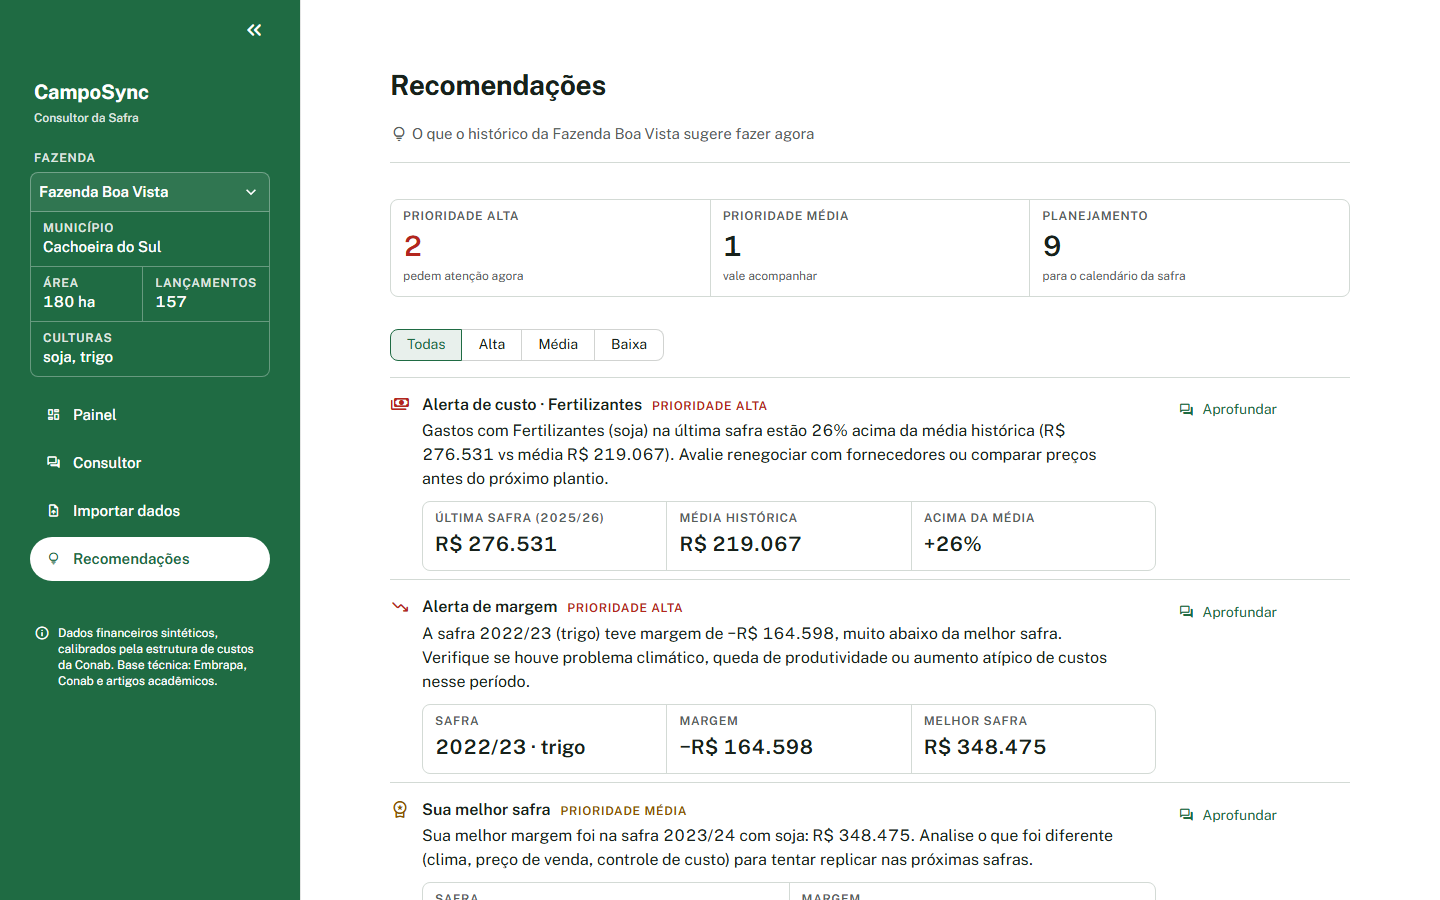
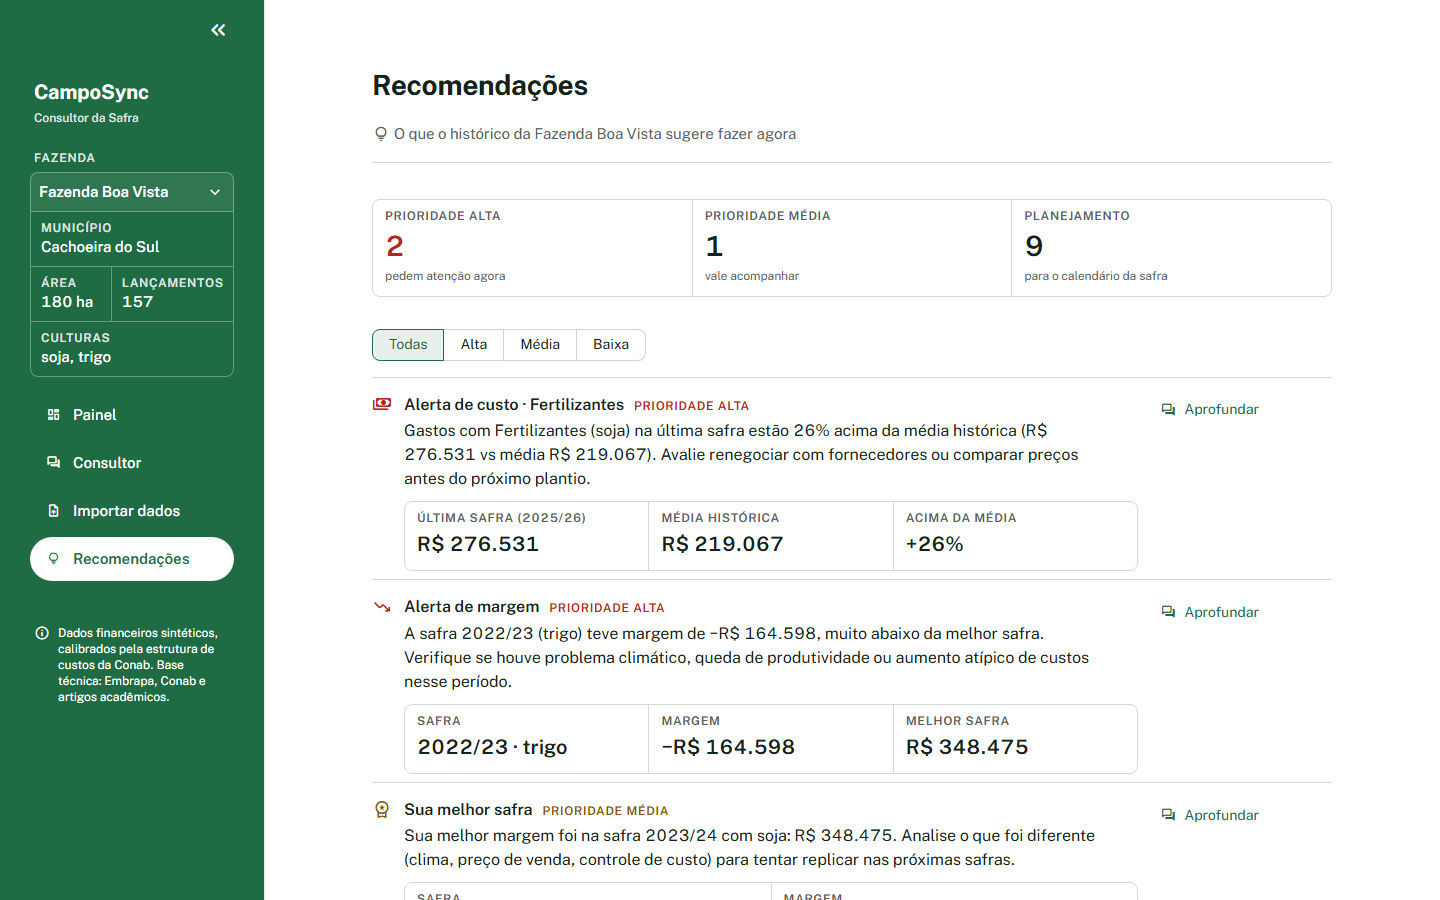
feat(ui): finaliza interface do handoff (trilho, importar, como cheguei) e atualiza roadmap
- trilho com 264px (Streamlit 1.67 usa data-collapsed) e ficha sem quebra de linha
- importar: uploader em português, campos explicativos e tabela do modelo de planilha
- "como cheguei": cada consulta vira linha de campos da nota
- campo de pergunta com rótulo; cores soltas viram tokens
- prints do repositório refeitos; roadmap atualizado; pasta de handoff ignorada

diff --git a/ui/tema.py b/ui/tema.py
@@ -22,6 +22,10 @@ AMBAR_FIO = "#D9A441"
 AMBAR_FUNDO = "#FDF6E9"
 VERMELHO = "#B3261E"
 VERMELHO_FUNDO = "#FCEEEC"
+VERDE_FIO = "#CFE0D5"     # borda da pergunta do produtor
+OK_FIO = "#B9D3C3"        # borda do aviso de sucesso
+ERRO_FIO = "#E9B4AE"      # borda do aviso de erro
+GRADE = "#E9EDEA"         # linhas de grade dos gráficos
 
 # Compatibilidade com nomes antigos usados nos gráficos
 TEXTO, MUDO, BORDA, FUNDO = TINTA, ROTULO, FIO, BRANCO
@@ -62,6 +66,7 @@ input, textarea { caret-color: __VERDE__; }
 /* ── Trilho (sidebar) ─────────────────────────────────────────────────── */
 [data-testid="stSidebar"] { background: __VERDE__; border-right: 0; }
 @media (min-width: 641px) {
+    [data-testid="stSidebar"][data-collapsed="false"],
     [data-testid="stSidebar"][aria-expanded="true"] { width: 264px !important; min-width: 264px !important; max-width: 264px !important; }
 }
 [data-testid="stSidebar"] * { color: #fff; }
@@ -83,12 +88,13 @@ input, textarea { caret-color: __VERDE__; }
 }
 [data-testid="stSidebar"] [data-testid="stSelectbox"] svg { fill: #fff; color: #fff; }
 [data-testid="stSidebar"] [data-testid="stRadioOption"] [data-testid="stIconMaterial"] { font-size: 20px; }
-.ficha { display: grid; grid-template-columns: 1fr 1fr; border: 1px solid rgba(255,255,255,.32); border-top: 0;
+.ficha { display: grid; grid-template-columns: minmax(0, .8fr) minmax(0, 1.2fr); border: 1px solid rgba(255,255,255,.32); border-top: 0;
          border-radius: 0 0 8px 8px; margin-top: -1rem; }
-.ficha > div { padding: 8px 12px; }
+.ficha > div { padding: 8px 10px; }
+.ficha .lab { white-space: nowrap; }
 .ficha .cheia { grid-column: 1 / 3; border-bottom: 1px solid rgba(255,255,255,.32); }
 .ficha .esq { border-right: 1px solid rgba(255,255,255,.32); }
-.ficha .v { font-size: 15px; line-height: 22px; font-weight: 500; color: #fff; }
+.ficha .v { white-space: nowrap; font-size: 15px; line-height: 22px; font-weight: 500; color: #fff; }
 /* Navegação: st.radio como lista; item ativo é a pílula branca */
 [data-testid="stSidebar"] [data-testid="stElementContainer"]:has([data-testid="stRadio"]),
 [data-testid="stSidebar"] [data-testid="stRadio"], [data-testid="stSidebar"] [data-testid="stRadio"] > div,
@@ -164,7 +170,7 @@ input, textarea { caret-color: __VERDE__; }
 /* ── Chat ─────────────────────────────────────────────────────────────── */
 [data-testid="stChatMessage"] { background: transparent; padding: .5rem 0; gap: 16px; }
 [data-testid="stChatMessage"]:has(.msg-usuario) > div:first-child { display: none; }
-.msg-usuario { background: __VERDE_TINTA__; border: 1px solid #CFE0D5; border-radius: 8px; padding: 8px 14px 10px; }
+.msg-usuario { background: __VERDE_TINTA__; border: 1px solid __VERDE_FIO__; border-radius: 8px; padding: 8px 14px 10px; }
 .msg-usuario p { margin: 2px 0 0; font-size: 15px; font-weight: 600; color: __TINTA__; }
 [data-testid="stChatMessage"] [data-testid="stMarkdownContainer"] :is(p, li) { font-size: 15px; line-height: 24px; }
 [data-testid="stChatMessage"] [data-testid^="stChatMessageAvatar"] {
@@ -173,6 +179,8 @@ input, textarea { caret-color: __VERDE__; }
 [data-testid="stChatMessage"] table { display: block; max-width: 100%; overflow-x: auto; }
 .passo-ferr { display: grid; grid-template-columns: 24px 1fr; gap: 10px; padding: 10px 0; border-bottom: 1px solid __FIO__; }
 .passo-ferr:last-child { border-bottom: 0; }
+.passo-ferr .campos { margin: 10px 0 4px; }
+.passo-ferr .nota { color: __ROTULO__; font-size: 12px; line-height: 16px; margin-top: 4px; }
 .passo-ferr .ms { color: __VERDE__; vertical-align: 0; }
 .passo-ferr .t { font-weight: 600; color: __TINTA__; }
 .passo-ferr .r { color: __TINTA__; margin-top: 2px; }
@@ -185,8 +193,8 @@ details.tecnico summary { cursor: pointer; font-weight: 600; letter-spacing: .06
 details.tecnico div { font-family: ui-monospace, Consolas, monospace; margin-top: 4px; overflow-wrap: anywhere; }
 .aviso { display: flex; gap: 8px; align-items: flex-start; border: 1px solid __AMBAR_FIO__; background: __AMBAR_FUNDO__;
          color: __AMBAR__; border-radius: 8px; padding: 10px 12px; margin-top: 8px; }
-.aviso.erro { border-color: #E9B4AE; background: __VERMELHO_FUNDO__; color: __VERMELHO__; }
-.aviso.ok { border-color: #B9D3C3; background: __VERDE_TINTA__; color: __VERDE_ESCURO__; }
+.aviso.erro { border-color: __ERRO_FIO__; background: __VERMELHO_FUNDO__; color: __VERMELHO__; }
+.aviso.ok { border-color: __OK_FIO__; background: __VERDE_TINTA__; color: __VERDE_ESCURO__; }
 .aviso .ms { vertical-align: 0; font-size: 20px; }
 [data-testid="stExpander"] > details { border: 1px solid __FIO__; border-radius: 8px; }
 [data-testid="stExpander"] summary { font-weight: 500; }
@@ -197,6 +205,12 @@ details.tecnico div { font-family: ui-monospace, Consolas, monospace; margin-top
 [data-testid="stChatInput"] > div, [data-testid="stChatInput"] > div > div, [data-testid="stChatInput"] > div > div > div {
     background: #fff !important; border: 0 !important; box-shadow: none !important; }
 [data-testid="stChatInputTextArea"] { background: #fff !important; color: __TINTA__; }
+[data-testid="stChatInput"] { position: relative; }
+[data-testid="stChatInput"]::before {
+    content: "Pergunta"; position: absolute; top: 6px; left: 14px; z-index: 1; pointer-events: none;
+    font-size: 12px; line-height: 16px; font-weight: 600; letter-spacing: .06em; text-transform: uppercase; color: __ROTULO__;
+}
+[data-testid="stChatInputTextArea"] { padding-top: 26px !important; }
 [data-testid="stChatInput"]:focus-within { border-color: __VERDE__; box-shadow: inset 0 0 0 1px __VERDE__; }
 [data-testid="stChatInputSubmitButton"] { background: __VERDE__; border-radius: 999px; }
 [data-testid="stChatInputSubmitButton"] svg, [data-testid="stChatInputSubmitButton"] [data-testid="stIconMaterial"] { color: #fff; fill: #fff; }
@@ -225,7 +239,17 @@ details.tecnico div { font-family: ui-monospace, Consolas, monospace; margin-top
 .stButton > button:disabled { color: __ROTULO__; background: __SUPERFICIE__; }
 
 /* Uploader */
-[data-testid="stFileUploaderDropzone"] { background: __SUPERFICIE__; border: 1px dashed __VERDE__; border-radius: 8px; padding: 24px; }
+[data-testid="stFileUploaderDropzone"] { background: #fff; border: 1px dashed __VERDE__; border-radius: 8px; padding: 20px 24px;
+    display: flex; flex-direction: row; align-items: center; justify-content: flex-start; gap: 16px; flex-wrap: wrap; }
+[data-testid="stFileUploaderDropzone"]:hover { background: __VERDE_TINTA__; }
+/* Textos do Streamlit vêm em inglês e não são configuráveis: escondemos e escrevemos os nossos */
+[data-testid="stFileUploaderDropzoneInstructions"] { display: none; }
+[data-testid="stFileUploaderDropzone"] button p { font-size: 0; }
+[data-testid="stFileUploaderDropzone"] button p::after { content: "Escolher arquivo"; font-size: 15px; font-weight: 600; }
+[data-testid="stFileUploaderDropzone"]::after { content: "ou arraste para cá · PDF, CSV ou Excel · até 200 MB"; color: __ROTULO__; font-size: 15px; }
+[data-testid="stFileUploaderFile"] { border: 1px solid __FIO__; border-radius: 8px; padding: 4px 8px; }
+.importar-grade { display: grid; grid-template-columns: 1fr; gap: 0; }
+[data-testid="stDataFrame"] { border: 1px solid __FIO__; border-radius: 8px; overflow: hidden; }
 
 /* ── Celular ──────────────────────────────────────────────────────────── */
 @media (max-width: 640px) {
@@ -244,8 +268,8 @@ details.tecnico div { font-family: ui-monospace, Consolas, monospace; margin-top
 
 def _css() -> str:
     css = _CSS
-    for nome in ("VERDE_ESCURO", "VERDE_TINTA", "VERDE", "BRANCO", "SUPERFICIE", "TINTA", "ROTULO", "FIO",
-                 "AMBAR_FIO", "AMBAR_FUNDO", "AMBAR", "VERMELHO_FUNDO", "VERMELHO"):
+    for nome in ("VERDE_ESCURO", "VERDE_TINTA", "VERDE_FIO", "VERDE", "BRANCO", "SUPERFICIE", "TINTA", "ROTULO", "FIO",
+                 "AMBAR_FIO", "AMBAR_FUNDO", "AMBAR", "VERMELHO_FUNDO", "VERMELHO", "OK_FIO", "ERRO_FIO", "GRADE"):
         css = css.replace(f"__{nome}__", globals()[nome])
     return css
 
@@ -323,5 +347,5 @@ def layout_grafico(fig, altura=340):
         separators=",.",
     )
     fig.update_xaxes(showgrid=False, linecolor=FIO)
-    fig.update_yaxes(gridcolor="#E9EDEA", zeroline=False)
+    fig.update_yaxes(gridcolor=GRADE, zeroline=False)
     return fig

diff --git a/ui/paginas/consultor.py b/ui/paginas/consultor.py
@@ -203,17 +203,24 @@ def _campos_da_ferramenta(nome: str, bruto: str) -> list[dict]:
     return []
 
 
-def _comprovante(meta: dict) -> list[dict]:
-    """O comprovante da resposta: os campos da consulta mais importante que trouxe números."""
+def _origem_comprovante(meta: dict) -> str | None:
+    """Nome da consulta cujos campos viram o comprovante (a mais importante que trouxe números)."""
     prioridade = ["detectar_duplicados", "comparar_safras", "resultado_safra", "detectar_anomalias",
                   "gastos_por_safra", "cotacao_atual"]
     por_nome = {f["nome"]: f for f in meta.get("ferramentas", [])}
     for nome in prioridade:
-        if nome in por_nome:
-            itens = _campos_da_ferramenta(nome, por_nome[nome].get("resultado", ""))
-            if itens:
-                return itens
-    return []
+        if nome in por_nome and _campos_da_ferramenta(nome, por_nome[nome].get("resultado", "")):
+            return nome
+    return None
+
+
+def _comprovante(meta: dict) -> list[dict]:
+    """O comprovante da resposta: os campos da consulta mais importante que trouxe números."""
+    nome = _origem_comprovante(meta)
+    if not nome:
+        return []
+    por_nome = {f["nome"]: f for f in meta.get("ferramentas", [])}
+    return _campos_da_ferramenta(nome, por_nome[nome].get("resultado", ""))
 
 
 def _trecho(texto: str, limite: int = 240) -> str:
@@ -355,15 +362,23 @@ def _mostrar_meta(meta: dict):
     n = len(ferr)
     with st.expander(f"Como cheguei nessa resposta · {n} consulta{'s' if n > 1 else ''}", icon=":material/receipt_long:"):
         passos, tecnico = "", []
+        no_comprovante = _origem_comprovante(meta)
         for f in ferr:
             ic, desc = _rotulo(f["nome"])
             ctx = _contexto_args(f["args"])
             res = _resumo_resultado(f["nome"], f.get("resultado", ""))
+            # Cada consulta vira uma linha de campos da nota; a que já virou comprovante só remete a ele.
+            campos = [c for c in _campos_da_ferramenta(f["nome"], f.get("resultado", "")) if c["rotulo"] != "Origem"]
+            if f["nome"] == no_comprovante:
+                corpo = '<div class="nota">Valores no comprovante, logo acima da resposta.</div>'
+            elif campos:
+                corpo = tema.campos([{k: v for k, v in c.items() if k != "estado"} for c in campos])
+            else:
+                corpo = f'<div class="r">{tema.esc(res)}</div>' if res else ""
             passos += (
                 f'<div class="passo-ferr">{tema.ms(ic)}<div>'
                 f'<div class="t">{tema.esc(desc)}{(" · " + tema.esc(ctx)) if ctx else ""}</div>'
-                + (f'<div class="r">{tema.esc(res)}</div>' if res else "")
-                + "</div></div>"
+                + corpo + "</div></div>"
             )
             args = ", ".join(f"{k}={v}" for k, v in f["args"].items() if v not in (None, ""))
             tecnico.append(f"{f['nome']}({args}) · {f['segundos']}s")

diff --git a/ui/paginas/importar.py b/ui/paginas/importar.py
@@ -1,4 +1,5 @@
 """Importar dados: upload de PDF/CSV/Excel -> revisão editável -> confirmação."""
+import io
 import os
 import tempfile
 from pathlib import Path
@@ -94,10 +95,11 @@ def render(fazenda: dict):
         return
 
     # ── Passo 1: envio ──────────────────────────────────────────────────────
+    st.markdown('<div class="lab" style="margin-bottom:6px">Arquivo</div>', unsafe_allow_html=True)
     arquivo = st.file_uploader(
-        "Arraste o arquivo aqui ou clique para escolher",
+        "Arquivo",
         type=["pdf", "csv", "xlsx", "xls"],
-        help="PDF de nota fiscal ou boleto (lido por IA), ou planilha CSV/Excel com colunas data e valor.",
+        label_visibility="collapsed",
     )
     if arquivo:
         st.markdown(f'<div class="pagina-ctx">{tema.ms("attach_file")}<b>{tema.esc(arquivo.name)}</b>&nbsp;· '
@@ -115,12 +117,19 @@ def render(fazenda: dict):
             else:
                 st.session_state["lancamentos_pendentes"] = lancamentos
                 st.rerun()
+        return
 
-    st.download_button("Baixar planilha modelo (CSV)", MODELO_CSV, file_name="modelo_lancamentos.csv", mime="text/csv",
+    tema.mostrar_campos([
+        {"rotulo": "PDF · nota fiscal ou boleto", "texto": True, "icone": "picture_as_pdf",
+         "valor": "A IA lê o texto e extrai data, fornecedor, categoria e valor."},
+        {"rotulo": "CSV ou Excel · planilha", "texto": True, "icone": "table_chart",
+         "valor": "As colunas são reconhecidas pelo nome: data, valor, categoria, fornecedor, cultura e safra."},
+        {"rotulo": "Antes de gravar", "texto": True, "icone": "fact_check",
+         "valor": "Você revisa e corrige cada linha. Nada entra no histórico sem a sua confirmação."},
+    ])
+
+    tema.secao("Modelo de planilha", "Se for enviar uma planilha, use este formato. As duas primeiras colunas são obrigatórias.")
+    st.dataframe(pd.read_csv(io.StringIO(MODELO_CSV)), hide_index=True, use_container_width=True,
+                 column_config={"valor": st.column_config.NumberColumn("valor (R$)", format="%.2f")})
+    st.download_button("Baixar modelo (CSV)", MODELO_CSV, file_name="modelo_lancamentos.csv", mime="text/csv",
                        icon=":material/download:")
-    with st.expander("Como funciona", icon=":material/help:"):
-        st.markdown(
-            "- **PDF** (nota fiscal, boleto): a IA lê o texto e extrai data, fornecedor, categoria e valor.\n"
-            "- **CSV / Excel**: as colunas são reconhecidas pelo nome (`data`, `valor`, `categoria`, `fornecedor`, `cultura`, `safra`).\n"
-            "- Você sempre revisa e edita antes de qualquer coisa ir para o histórico."
-        )

diff --git a/docs/ROADMAP.md b/docs/ROADMAP.md
@@ -19,10 +19,11 @@ Legenda: ✅ feito · 🔄 em andamento · ⬜ a fazer
 | Recomendações proativas (`recomendar_acoes`) | ✅ |
 | Repositório organizado (`camposync/`, `scripts/`, `data/`, `docs/`) | ✅ |
 | README alinhado ao código, com "Problema e valor" | ✅ |
-| Testes automatizados (49, pytest) | ✅ |
+| Testes automatizados (68, pytest) | ✅ |
 | Avaliação do agente com LLM real (`scripts/avaliar_agente.py`) | ✅ |
 | Commits de todos os integrantes | ✅ |
-| Prints da interface em `docs/resultados/` | ⬜ |
+| Prints da interface em `docs/resultados/prints/` | ✅ |
+| Interface finalizada a partir do handoff de design (trilho, Importar, "Como cheguei" em campos) | ✅ |
 | Roteiro do pitch ensaiado | ⬜ |
 
 ---
@@ -34,9 +35,25 @@ Itens exigidos pelo enunciado. Sem eles a nota fica comprometida.
 - [x] **Commits de todos os integrantes.** Cada pessoa do grupo faz ao menos um commit real com a própria identidade; o enunciado zera a nota de quem não tiver evidência de contribuição.
 - [x] **Validar a execução do zero** em uma máquina limpa: clonar, criar venv, `pip install -r requirements.txt`, definir `OPENROUTER_API_KEY`, `streamlit run app.py`. Corrigir o que quebrar. *(Validado em venv limpo; app agora abre mesmo sem chave.)*
 - [x] **Conferir o `requirements.txt`**: o código usa `openai` (cliente do OpenRouter); confirmar que nada sobrou do `anthropic`.
-- [ ] **Exemplos de resultados** em `docs/resultados/`: a avaliação do agente (com as respostas completas) e o log de exemplo já estão lá; **faltam os prints da interface** (painel, chat com o expander "como cheguei nessa resposta", upload e recomendações).
+- [x] **Exemplos de resultados** em `docs/resultados/`: avaliação do agente com as respostas completas, log de exemplo e 9 prints da interface (painel, consultor, recomendações, importar, celular). *(Os prints que dependem de resposta do LLM — aguardando, erro e comprovante no celular — são da rodada anterior; refazer se houver cota de modelo.)*
 - [x] **Seção "Problema e valor" no README**: quem é o usuário, qual a dor, o que muda com a solução (o professor avalia problema real e valor gerado, não só tecnologia).
 - [x] **Deixar claro que os dados são sintéticos**, com estrutura de custos baseada nas planilhas da Conab.
+
+## Interface — finalização do handoff de design
+
+Itens que a revisão de design deixou abertos e que foram fechados, e o que ainda sobra.
+
+- [x] Trilho com 264px (o Streamlit 1.67 usa `data-collapsed`, não `aria-expanded`; o seletor foi corrigido em `ui/tema.py`).
+- [x] Ficha da fazenda no trilho sem quebra de linha ("180 ha", "Lançamentos").
+- [x] **Importar dados** refeito: área de envio em português (o texto "Upload / 200MB per file" do Streamlit é escondido por CSS), três campos explicando PDF, planilha e revisão, tabela com o modelo de planilha e botão de download.
+- [x] **"Como cheguei nessa resposta"**: cada consulta vira uma linha de campos da nota (a que já virou comprovante só remete a ele).
+- [x] Campo de pergunta com rótulo "Pergunta", como os demais campos.
+- [x] Cores soltas viraram tokens em `ui/tema.py` (`VERDE_FIO`, `OK_FIO`, `ERRO_FIO`, `GRADE`).
+- [x] Prints do repositório refeitos com a interface atual.
+- [ ] Ícones de 16/18/20px e fonte 13px nos gráficos ficam fora da escala de 4 tamanhos (desvio pequeno, anotado no `DESIGN.md`).
+- [ ] Refazer os prints que dependem de resposta do LLM (precisa de cota de modelo).
+
+---
 
 ## Fase 1 — Pitch e demo (véspera e manhã da entrega)
 
